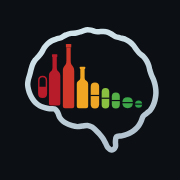
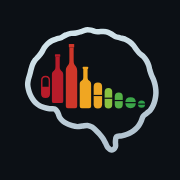
Clear bottle 1 from the brain outline
The first bottle's base was all but touching the brain's lower-left outline -
a 3px gap at 512, which merges into the stroke once the icon is drawn at
home-screen size.

Two causes, both addressed:

- Its baseline was mis-transcribed as y=293 when the original is y=287, so the
  bottle had been extended 6px further down than the artwork it was copied
  from. Restored to 287.
- The brain's floor rises steeply toward the left (y=303 at x=140 against
  y=329 at x=180), so the leftmost elements have the least room. The capsule,
  bottles and tablets now sit 7px further right.

Measured clearances between each element and the brain stroke, at 512:
bottle 1 goes from 3px to 10px and the capsule from 14px to 21px. The
rightmost tablet gives up the most, 22px to 15px, which is still comfortable.
Worst clearance anywhere is now 10px, up from 3px.

The brain path is untouched - byte-identical to the previous commit - so only
the inner marks moved. Still 195px from centre against the 205px maskable safe
radius, and nothing clips.

Claude-Session: https://claude.ai/code/session_01TD7RMXirZeboZ9dsZcsqZD

Changed region(s): [[0.1944, 0.2222, 0.8056, 0.6111]]

diff --git a/script.js b/script.js
@@ -3,7 +3,7 @@ import { REGIMEN_CONFIG } from './data/regimens.js';
 import { SCALES } from './data/scales.js';
 
 document.addEventListener('DOMContentLoaded', () => {
-    const APP_VERSION = '0.3.1';
+    const APP_VERSION = '0.3.2';
     document.querySelectorAll('.app-version').forEach(el => el.textContent = APP_VERSION);
 
     // --- PREVENT TRANSITION FLASH --- //

diff --git a/sw.js b/sw.js
@@ -1,4 +1,4 @@
-const CACHE_NAME = 'withdrawal-app-cache-v23';
+const CACHE_NAME = 'withdrawal-app-cache-v24';
 const NETWORK_TIMEOUT = 5000; // ms before falling back to cache
 const urlsToCache = [
     './',
